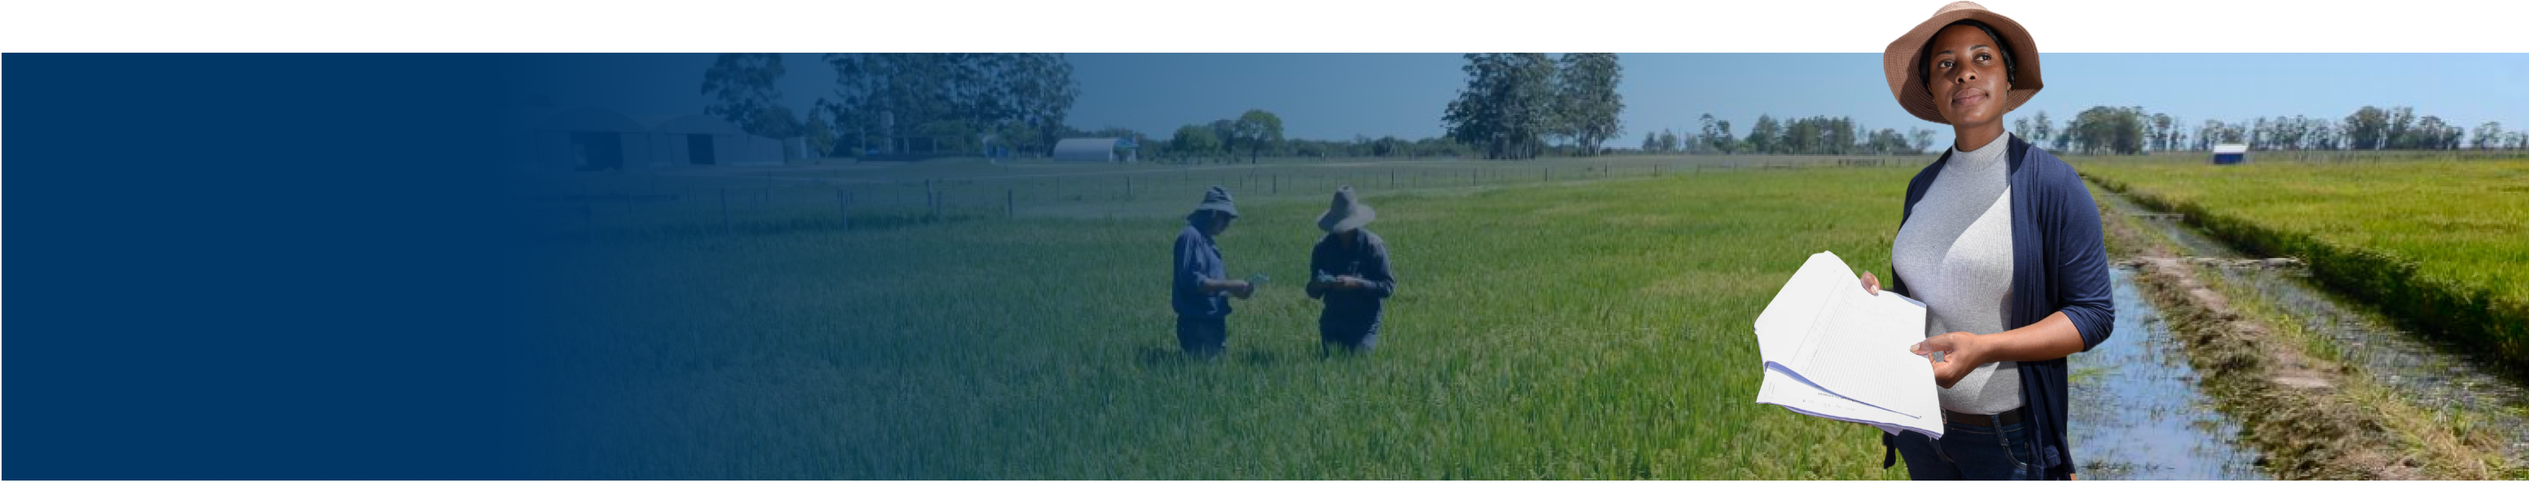
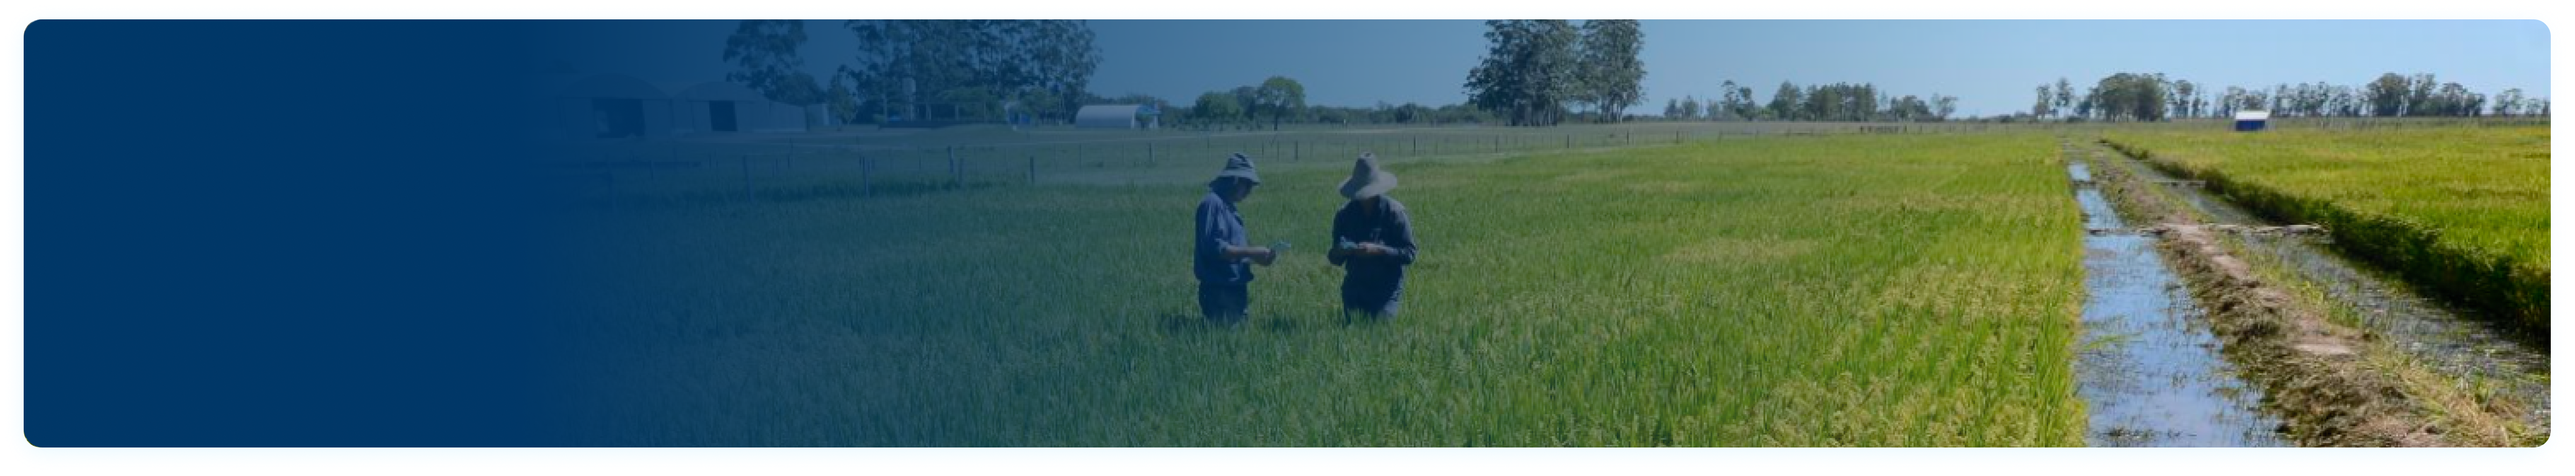
:sparkles: feat: home animation added

diff --git a/research-indicators/src/app/pages/platform/pages/home/components/header/header.component.scss b/research-indicators/src/app/pages/platform/pages/home/components/header/header.component.scss
@@ -1,44 +1,89 @@
 .container {
   position: relative;
-  display: inline-block;
+  width: 100%;
+  perspective: 1000px;
+}
 
-  .header-image {
-    width: 100%;
-    display: block;
+.tilt-container {
+  width: 100%;
+  transform-style: preserve-3d;
+  transition: transform 0.1s ease-out;
+}
+
+.tilt-box {
+  position: relative;
+  width: 100%;
+  transform-style: preserve-3d;
+  transition: transform 0.1s ease-out;
+
+  &:hover {
+    transition: transform 0.1s ease-out;
+  }
+}
+
+.header-image {
+  width: 100%;
+  height: auto;
+  display: block;
+  transform: translateZ(0);
+}
+
+.character-image {
+  position: absolute;
+  top: 45%;
+  left: 50%;
+  transform: translate(-50%, -50%) translateZ(80px);
+  width: auto;
+  height: 90%;
+  max-height: 400px;
+  object-fit: contain;
+  pointer-events: none;
+  filter: drop-shadow(0 10px 15px rgb(0 0 0 / 30%));
+}
+
+.logo {
+  display: grid;
+  position: absolute;
+  top: 25%;
+  left: 7%;
+  z-index: 2;
+  transform: translateZ(10px);
+
+  .roar-logo {
+    width: 70px;
+  }
+}
+
+.text-content {
+  display: grid;
+  position: absolute;
+  top: 45%;
+  left: 7%;
+  gap: 10px;
+  z-index: 2;
+  transform: translateZ(10px);
+
+  .title {
+    font-family: Barlow, sans-serif;
+    font-size: 31px;
+    font-weight: 800;
+    line-height: 37px;
+    color: #fff;
+    text-transform: uppercase;
   }
 
-  .logo {
-    display: grid;
-    position: absolute;
-    top: 25%;
-    left: 7%;
-
-    .roar-logo {
-      width: 70px;
-    }
+  .description {
+    font-family: Barlow, sans-serif;
+    font-size: 14px;
+    font-weight: 400;
+    line-height: 17px;
+    color: #fff;
   }
-  .text-content {
-    display: grid;
-    position: absolute;
-    top: 45%;
-    left: 7%;
-    gap: 10px;
+}
 
-    .title {
-      font-family: Barlow, sans-serif;
-      font-size: 31px;
-      font-weight: 800;
-      line-height: 37px;
-      color: #ffffff;
-      text-transform: uppercase;
-    }
-
-    .description {
-      font-family: Barlow, sans-serif;
-      font-size: 14px;
-      font-weight: 400;
-      line-height: 17px;
-      color: #ffffff;
-    }
+@media (width <= 768px) {
+  .character-image {
+    height: 60%;
+    max-height: 280px;
   }
 }

diff --git a/research-indicators/src/app/pages/platform/pages/home/components/header/header.component.ts b/research-indicators/src/app/pages/platform/pages/home/components/header/header.component.ts
@@ -1,4 +1,4 @@
-import { Component } from '@angular/core';
+import { Component, ElementRef, HostListener, ViewChild } from '@angular/core';
 
 @Component({
   selector: 'app-header',
@@ -8,5 +8,37 @@ import { Component } from '@angular/core';
   styleUrl: './header.component.scss'
 })
 export class HeaderComponent {
+  @ViewChild('tiltBox') tiltBox!: ElementRef;
 
+  private readonly maxTilt = 3; // Reduced from 10 to 3 degrees for subtler effect
+
+  @HostListener('mousemove', ['$event'])
+  onMouseMove(event: MouseEvent) {
+    const element = this.tiltBox?.nativeElement;
+    if (!element) return;
+
+    const rect = element.getBoundingClientRect();
+    const x = event.clientX - rect.left;
+    const y = event.clientY - rect.top;
+
+    // Calculate percentage position
+    const xPercent = (x / rect.width) * 100;
+    const yPercent = (y / rect.height) * 100;
+
+    // Calculate tilt angles - inverted the signs to reverse the effect
+    const tiltX = -((yPercent - 50) / 50) * this.maxTilt;
+    const tiltY = -((50 - xPercent) / 50) * this.maxTilt;
+
+    // Apply the transform
+    element.style.transform = `rotateX(${tiltX}deg) rotateY(${tiltY}deg)`;
+  }
+
+  @HostListener('mouseleave')
+  onMouseLeave() {
+    const element = this.tiltBox?.nativeElement;
+    if (!element) return;
+
+    // Reset the transform when mouse leaves
+    element.style.transform = 'rotateX(0deg) rotateY(0deg)';
+  }
 }

diff --git a/research-indicators/src/app/pages/platform/pages/home/components/header/header.component.html b/research-indicators/src/app/pages/platform/pages/home/components/header/header.component.html
@@ -1,10 +1,15 @@
 <div class="container">
-  <img src="/images/home/header-home.png" alt="header-home" class="header-image" />
-  <div class="logo">
-    <img src="roar.png" alt="roar" class="roar-logo" />
-  </div>
-  <div class="text-content">
-    <span class="title">Your New Reporting Tool</span>
-    <span class="description">Welcome to ROAR! Explore, create, and manage your projects and results with ease.</span>
+  <div class="tilt-container">
+    <div class="tilt-box" #tiltBox>
+      <img src="/images/home/header-home.png" alt="header-home" class="header-image" />
+      <img src="/images/home/header-home-character.png" alt="header-character" class="character-image" />
+      <div class="logo">
+        <img src="roar.png" alt="roar" class="roar-logo" />
+      </div>
+      <div class="text-content">
+        <span class="title">Your New Reporting Tool</span>
+        <span class="description">Welcome to ROAR! Explore, create, and manage your projects and results with ease.</span>
+      </div>
+    </div>
   </div>
 </div>
